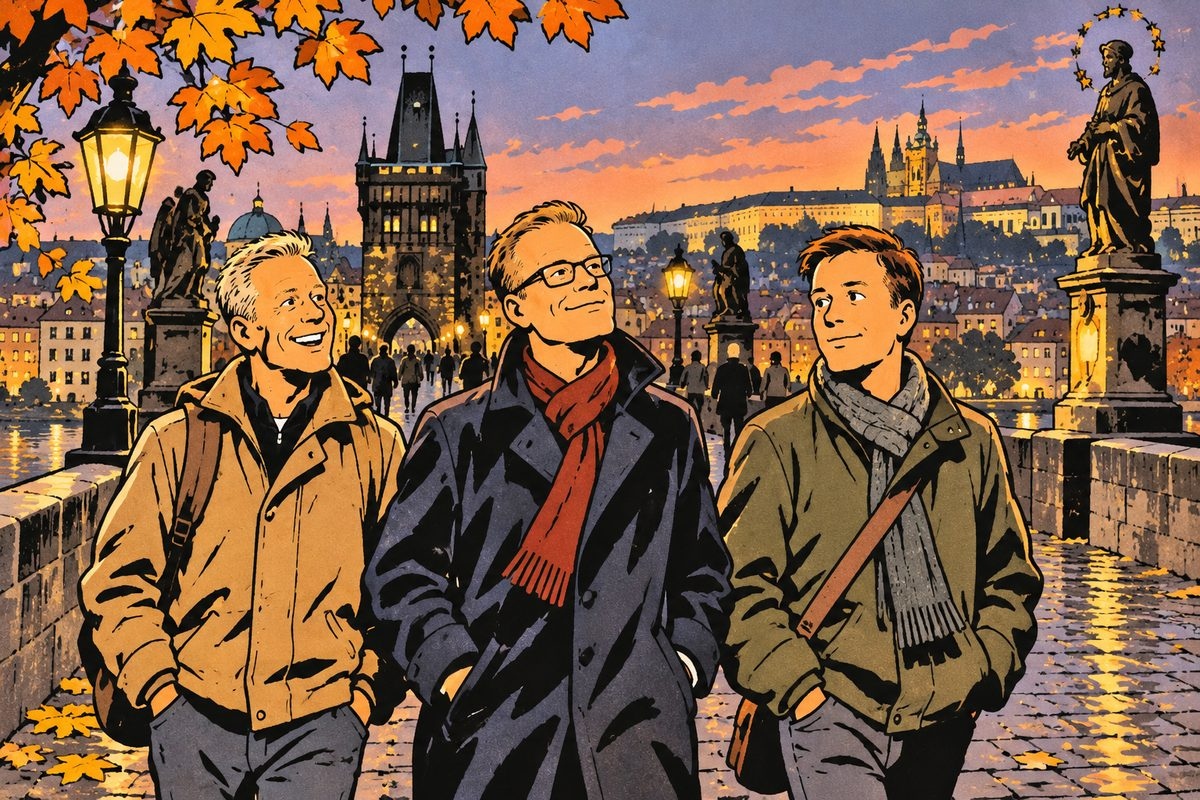
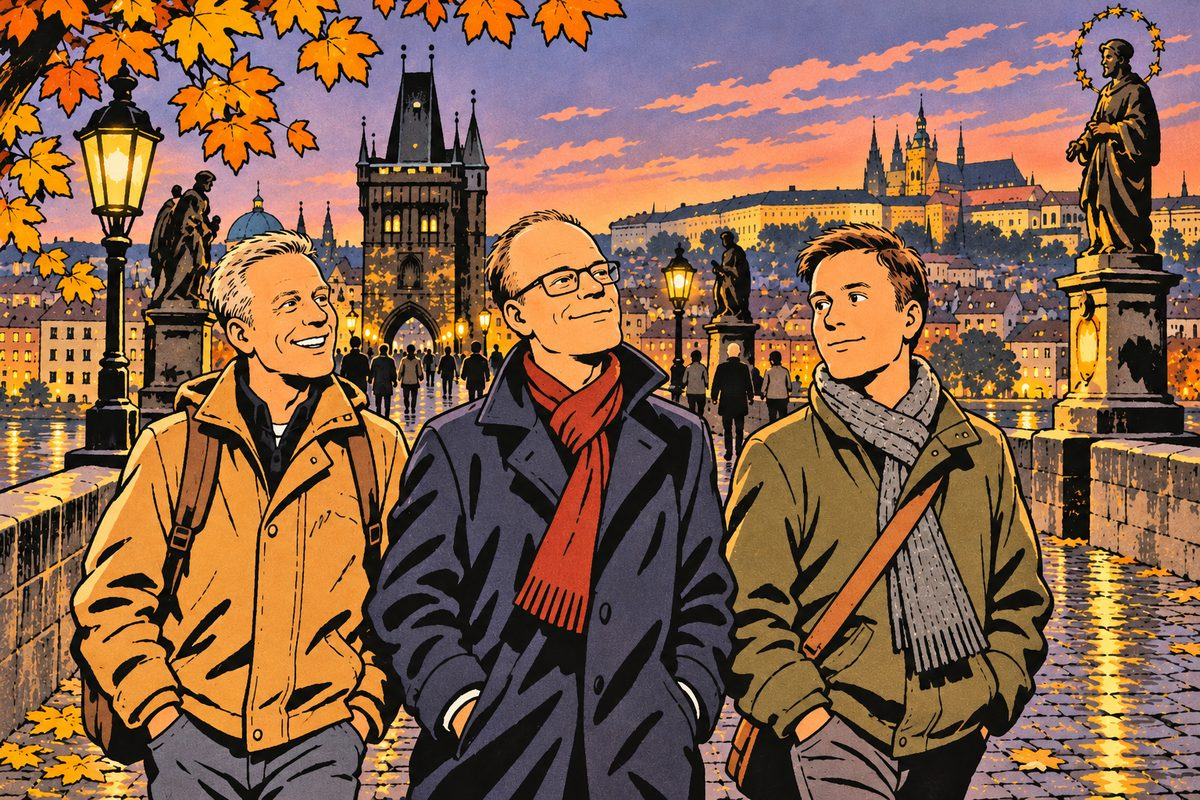
Päivitetty siltakuvitus

diff --git a/sw.js b/sw.js
@@ -1,5 +1,5 @@
 // Offline-välimuisti. Nosta versionumeroa aina kun sivua päivitetään.
-const CACHE = "niemet-v5";
+const CACHE = "niemet-v6";
 const FILES = ["./", "index.html", "manifest.webmanifest", "icon-192.png", "icon-512.png", "apple-touch-icon.png",
   "img/silta.jpg", "img/lounge.jpg", "img/carl.jpg", "img/hauta.jpg", "img/jilji.jpg", "img/pubiruoat.jpg"];
 self.addEventListener("install", e => { e.waitUntil(caches.open(CACHE).then(c => c.addAll(FILES))); self.skipWaiting(); });
